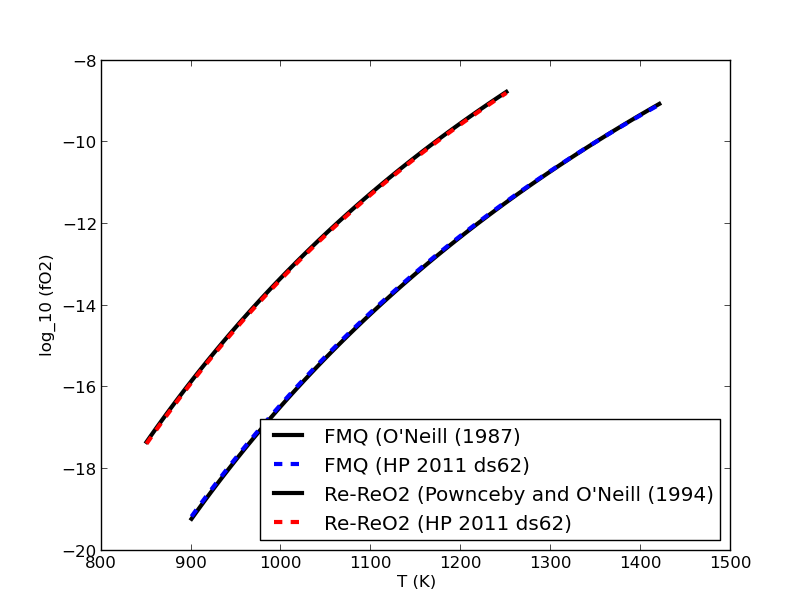
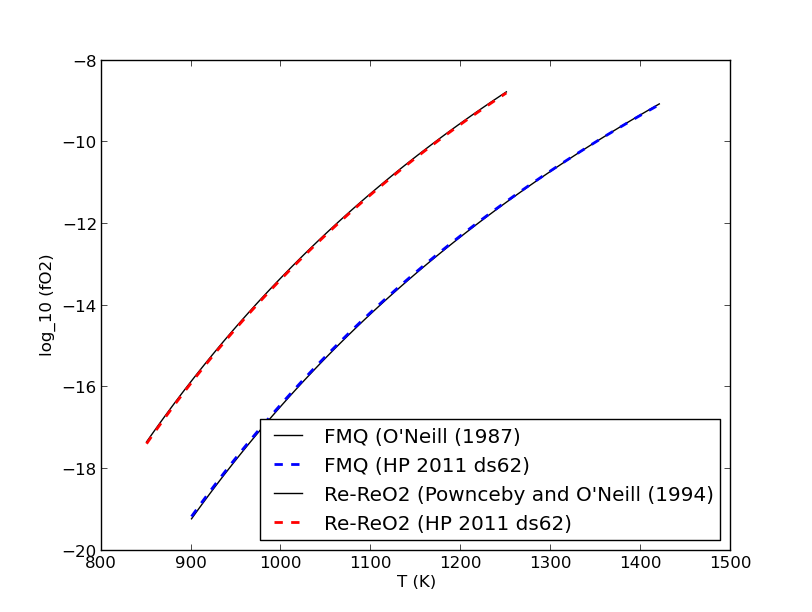
Tweak fO2 figure for manual

diff --git a/examples/example_chemical_potentials.py b/examples/example_chemical_potentials.py
@@ -105,8 +105,8 @@ if __name__ == "__main__":
 
 
     # Plot the FMQ log10(fO2) values
-    plt.plot(temperatures, log10fO2_FMQ_ONeill1987, 'k', linewidth=3., label='FMQ (O\'Neill (1987)')
-    plt.plot(temperatures, log10fO2_FMQ, 'b--', linewidth=3., label='FMQ (HP 2011 ds62)')
+    plt.plot(temperatures, log10fO2_FMQ_ONeill1987, 'k', linewidth=1., label='FMQ (O\'Neill (1987)')
+    plt.plot(temperatures, log10fO2_FMQ, 'b--', linewidth=2., label='FMQ (HP 2011 ds62)')
 
 
     # Do the same for Re-ReO2
@@ -187,8 +187,8 @@ if __name__ == "__main__":
         log10fO2_ReReO2buffer[i] = np.log10(fugacity(oxygen, ReReO2buffer))
 
     # Plot the Re-ReO2 log10(fO2) values
-    plt.plot(temperatures, log10fO2_Re_PO1994, 'k', linewidth=3., label='Re-ReO2 (Pownceby and O\'Neill (1994)')
-    plt.plot(temperatures, log10fO2_ReReO2buffer, 'r--', linewidth=3., label='Re-ReO2 (HP 2011 ds62)')
+    plt.plot(temperatures, log10fO2_Re_PO1994, 'k', linewidth=1., label='Re-ReO2 (Pownceby and O\'Neill (1994)')
+    plt.plot(temperatures, log10fO2_ReReO2buffer, 'r--', linewidth=2., label='Re-ReO2 (HP 2011 ds62)')
     plt.ylabel("log_10 (fO2)")
     plt.xlabel("T (K)")
     plt.legend(loc='lower right')
